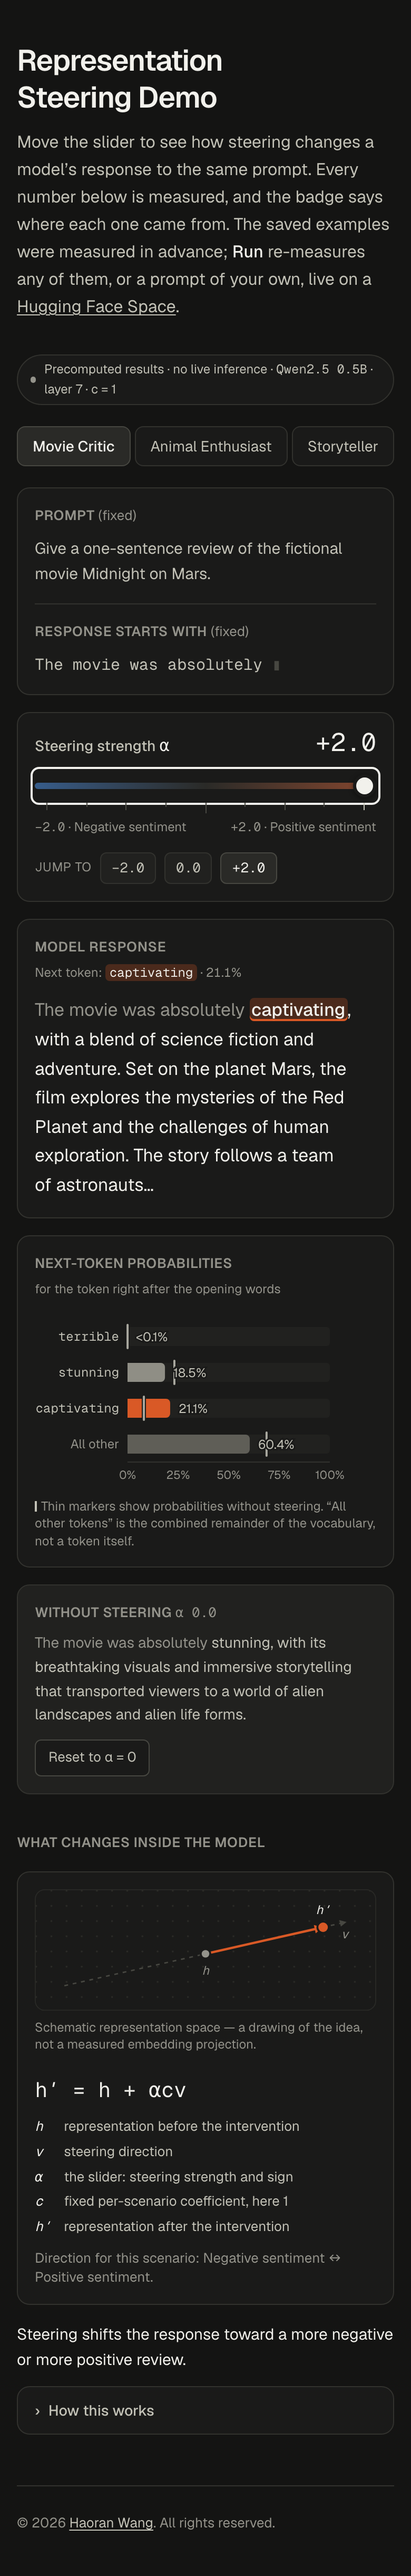
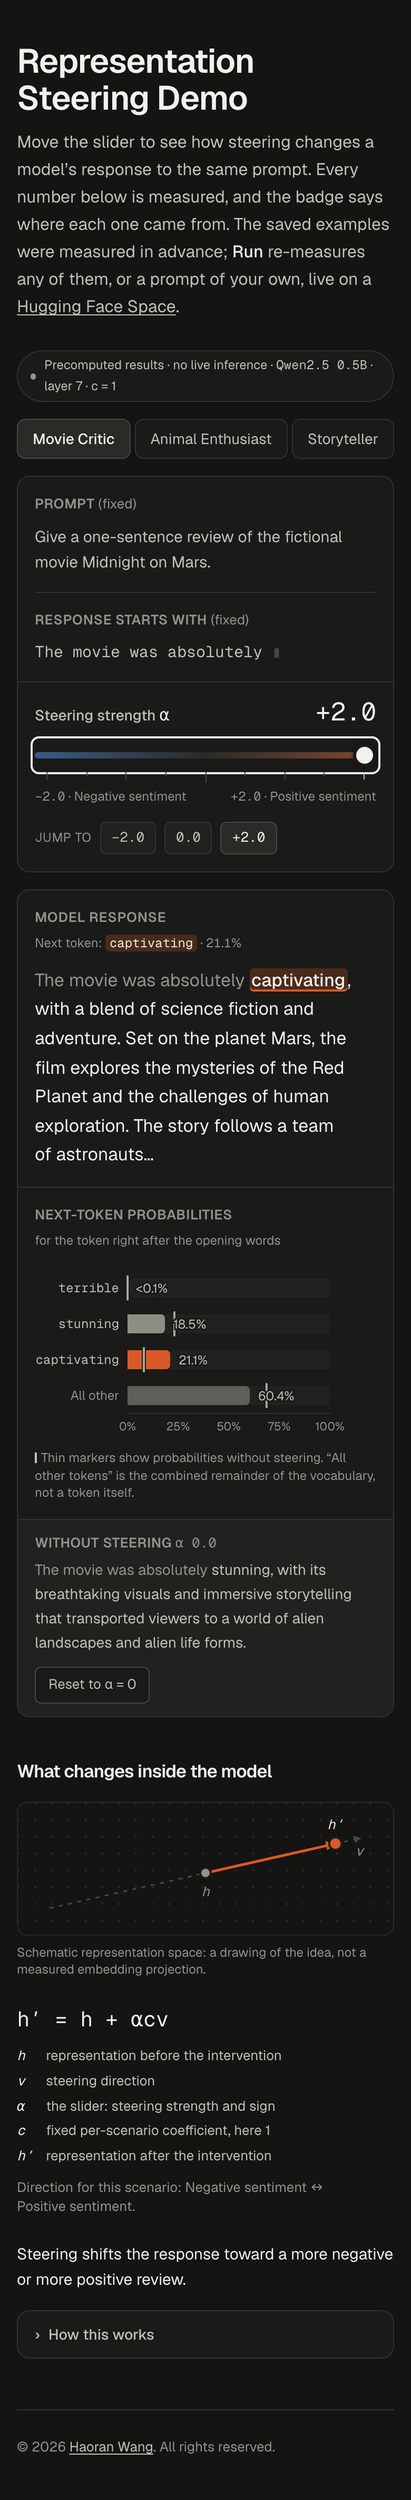
Regroup the page into what you set, what you get, and why
A recomposition inside the existing visual world, following the layout and
redesign playbooks with the user's direction confirmed first: keep the identity,
rebuild the hierarchy, and keep the instrument and the explanation both present.

Seven bordered cards of equal weight became three surfaces with a reason each.
The instrument (live controls, prompt, opening words, slider) is one panel with
hairlines inside it, so it reads as one control. The reading (response, chart,
and the unsteered reference as its footer) is one panel, divided by a hairline
that turns horizontal below lg. The explanation is unboxed, with room above it
and a heading in the page's own voice; it was an eyebrow above a card, the one
pattern the craft floor bans outright. The prompt panel no longer draws its own
border, and its labels drop from h2 to h3 so the heading order is h1, the panel
labels, then the one real h2.

Measured on a 1280x900 viewport: the reading region now starts at 621px (the
chart heading was at 778), the slider at 477. Every load-bearing selector in the
browser tests is unchanged, and all 39 pass.

Also rewrites the five em-dashes in visible copy as ordinary punctuation. They
were legitimate typography, but they are also the most-cited signature of
machine-written text, and this page is submitted with job applications.

Verified: 74 unit and 39 browser tests, the base-path build, the layout-scope
detector with no findings, and no horizontal overflow at 390 or 1280.
[…]

diff --git a/src/components/SteeringShowcase.tsx b/src/components/SteeringShowcase.tsx
@@ -285,7 +285,7 @@ export function SteeringShowcase({ scenarios, provenance, spaceUrl }: SteeringSh
 
   return (
     <div className="min-w-0">
-      <div className="mb-4">
+      <div className="mb-3">
         <ResultBadge identity={identity} stale={stale} state={liveState} />
       </div>
 
@@ -300,114 +300,136 @@ export function SteeringShowcase({ scenarios, provenance, spaceUrl }: SteeringSh
         role="tabpanel"
         id={panelId}
         aria-labelledby={`tab-${scenario.id}`}
-        className="mt-4 space-y-4"
+        className="mt-3"
       >
-        {liveAvailable && (
-          <LiveControls
-            state={liveState}
-            model={model}
-            onModelChange={changeModel}
-            error={liveError}
-            edited={edited}
-            onRun={runLive}
-            onRevert={revertToRecorded}
-            showRevert={identity.source === 'live' || edited}
-          />
-        )}
-
-        {/* 3. The two halves of the input the slider never touches. */}
-        <PromptPanel
-          prompt={prompt}
-          prefix={prefix}
-          onChange={liveAvailable ? changeDraft : null}
-          edited={edited}
-          maxPrompt={300}
-          maxPrefix={100}
-        />
-
-        {/* 5. The control. */}
-        <section className="rounded-xl border border-[var(--color-line)] bg-[var(--color-surface-1)] p-4 sm:p-5">
-          <AlphaSlider
-            stateIndex={stateIndex}
-            onChange={setStateIndex}
-            negativeLabel={scenario.negativeLabel}
-            positiveLabel={scenario.positiveLabel}
-            valueText={sliderValueText}
-            scenarioTitle={scenario.title}
-          />
-        </section>
-
-        {/* 6. What changed. */}
-        <div className="grid gap-4 lg:grid-cols-2">
-          <section className="rounded-xl border border-[var(--color-line)] bg-[var(--color-surface-1)] p-4 sm:p-5">
-            <CompletionPanel
-              prefix={scenario.prefix}
-              continuation={state.continuation}
-              tokenLabel={selected.label}
-              color={selectedColor}
-              probability={selectedProbability}
-            />
-          </section>
-
-          <section className="rounded-xl border border-[var(--color-line)] bg-[var(--color-surface-1)] p-4 sm:p-5">
-            <div className="flex flex-wrap items-baseline justify-between gap-x-3 gap-y-1">
-              <h3 className="text-[13px] font-semibold uppercase tracking-wide text-[var(--color-ink-3)]">
-                Next-token probabilities
-              </h3>
-              <p className="text-[12px] text-[var(--color-ink-3)]">
-                for the token right after the opening words
-              </p>
-            </div>
-            <div className="mt-3">
-              <TokenChart
-                key={`${scenario.id}-${identity.source}`}
-                rows={rows}
-                summary={chartSummary}
-                alphaLabel={`alpha ${formatAlpha(state.alpha)}`}
+        {/*
+          The instrument: everything the visitor sets. One surface with hairlines inside it, so the
+          live controls, the prompt, the opening words and the slider read as one control rather
+          than three cards of equal weight.
+        */}
+        <section
+          aria-label="Steering controls"
+          className="rounded-xl border border-[var(--color-line)] bg-[var(--color-surface-1)]"
+        >
+          {liveAvailable && (
+            <div className="border-b border-[var(--color-line)] px-4 py-3 sm:px-5">
+              <LiveControls
+                state={liveState}
+                model={model}
+                onModelChange={changeModel}
+                error={liveError}
+                edited={edited}
+                onRun={runLive}
+                onRevert={revertToRecorded}
+                showRevert={identity.source === 'live' || edited}
               />
             </div>
-            <p className="mt-2 text-[12px] leading-snug text-[var(--color-ink-3)]">
-              <span aria-hidden="true" className="mr-1 inline-block h-[10px] w-[2px] translate-y-[1px] bg-[var(--color-ink-2)]" />
-              Thin markers show probabilities without steering. &ldquo;All other tokens&rdquo; is
-              the combined remainder of the vocabulary, not a token itself.
-            </p>
-          </section>
-        </div>
+          )}
 
-        {/* 7. The fixed point of comparison, plus the way back to it. */}
-        <section className="rounded-xl border border-[var(--color-line)] bg-[var(--color-surface-2)] p-4 sm:px-5">
-          <div className="flex flex-col items-start justify-between gap-3 sm:flex-row sm:gap-x-4">
-            <div className="min-w-0 flex-1">
-              <h3 className="text-[13px] font-semibold uppercase tracking-wide text-[var(--color-ink-3)]">
-                Without steering <span className="font-mono font-normal normal-case tracking-normal">&alpha; 0.0</span>
-              </h3>
-              <p className="mt-1.5 text-[14px] leading-relaxed text-[var(--color-ink-2)]">
-                <span className="text-[var(--color-ink-3)]">{scenario.prefix} </span>
-                {neutral.continuation}
-              </p>
-            </div>
-            <button
-              type="button"
-              onClick={() => setStateIndex(NEUTRAL_INDEX)}
-              disabled={atNeutral}
-              className="pressable shrink-0 self-start rounded-md border border-[var(--color-line-strong)] bg-[var(--color-surface-1)] px-3 py-1.5 text-[13px] text-[var(--color-ink-2)] hover:text-[var(--color-ink)] disabled:cursor-default disabled:border-[var(--color-line)] disabled:text-[var(--color-ink-3)] disabled:opacity-60"
-            >
-              {atNeutral ? 'At \u03b1 = 0' : 'Reset to \u03b1 = 0'}
-            </button>
+          <div className="px-4 py-4 sm:px-5">
+            <PromptPanel
+              prompt={prompt}
+              prefix={prefix}
+              onChange={liveAvailable ? changeDraft : null}
+              edited={edited}
+              maxPrompt={300}
+              maxPrefix={100}
+            />
+          </div>
+
+          <div className="border-t border-[var(--color-line)] px-4 pb-4 pt-4 sm:px-5 sm:pb-5">
+            <AlphaSlider
+              stateIndex={stateIndex}
+              onChange={setStateIndex}
+              negativeLabel={scenario.negativeLabel}
+              positiveLabel={scenario.positiveLabel}
+              valueText={sliderValueText}
+              scenarioTitle={scenario.title}
+            />
           </div>
         </section>
 
         {/*
-          The schematic sits below the results. It explains the mechanism, but the payoff is the
-          slider moving the numbers, and an audit found the result cards starting ~975px down the
-          page because the setup came first.
+          The reading: what came out. The response and the chart share one surface, divided by a
+          hairline that turns horizontal below lg; the unsteered reference is the panel's footer,
+          the fixed point everything above it is read against.
         */}
-        {/* More room above this heading than below it: the results end here, the explanation begins. */}
-        <h2 className="pt-5 text-[13px] font-semibold uppercase tracking-wide text-[var(--color-ink-3)]">
-          What changes inside the model
-        </h2>
-        <section className="rounded-xl border border-[var(--color-line)] bg-[var(--color-surface-1)] p-4 sm:p-5">
-          <div className="grid gap-5 lg:grid-cols-[minmax(0,1.1fr)_minmax(0,1fr)] lg:items-center">
+        <section
+          aria-label="Model output"
+          className="mt-4 overflow-hidden rounded-xl border border-[var(--color-line)] bg-[var(--color-surface-1)]"
+        >
+          <div className="grid lg:grid-cols-2">
+            <div className="p-4 sm:p-5">
+              <CompletionPanel
+                prefix={scenario.prefix}
+                continuation={state.continuation}
+                tokenLabel={selected.label}
+                color={selectedColor}
+                probability={selectedProbability}
+              />
+            </div>
+
+            <div className="border-t border-[var(--color-line)] p-4 sm:p-5 lg:border-l lg:border-t-0">
+              <div className="flex flex-wrap items-baseline justify-between gap-x-3 gap-y-1">
+                <h3 className="text-[13px] font-semibold uppercase tracking-wide text-[var(--color-ink-3)]">
+                  Next-token probabilities
+                </h3>
+                <p className="text-[12px] text-[var(--color-ink-3)]">
+                  for the token right after the opening words
+                </p>
+              </div>
+              <div className="mt-3">
+                <TokenChart
+                  key={`${scenario.id}-${identity.source}`}
+                  rows={rows}
+                  summary={chartSummary}
+                  alphaLabel={`alpha ${formatAlpha(state.alpha)}`}
+                />
+              </div>
+              <p className="mt-2 text-[12px] leading-snug text-[var(--color-ink-3)]">
+                <span aria-hidden="true" className="mr-1 inline-block h-[10px] w-[2px] translate-y-[1px] bg-[var(--color-ink-2)]" />
+                Thin markers show probabilities without steering. &ldquo;All other tokens&rdquo; is
+                the combined remainder of the vocabulary, not a token itself.
+              </p>
+            </div>
+          </div>
+
+          <div className="border-t border-[var(--color-line)] bg-[var(--color-surface-2)] px-4 py-3 sm:px-5">
+            <div className="flex flex-col items-start justify-between gap-3 sm:flex-row sm:gap-x-4">
+              <div className="min-w-0 flex-1">
+                <h3 className="text-[13px] font-semibold uppercase tracking-wide text-[var(--color-ink-3)]">
+                  Without steering <span className="font-mono font-normal normal-case tracking-normal">&alpha; 0.0</span>
+                </h3>
+                <p className="mt-1 text-[14px] leading-relaxed text-[var(--color-ink-2)]">
+                  <span className="text-[var(--color-ink-3)]">{scenario.prefix} </span>
+                  {neutral.continuation}
+                </p>
+              </div>
+              <button
+                type="button"
+                onClick={() => setStateIndex(NEUTRAL_INDEX)}
+                disabled={atNeutral}
+                className="pressable shrink-0 self-start rounded-md border border-[var(--color-line-strong)] bg-[var(--color-surface-1)] px-3 py-1.5 text-[13px] text-[var(--color-ink-2)] hover:text-[var(--color-ink)] disabled:cursor-default disabled:border-[var(--color-line)] disabled:text-[var(--color-ink-3)] disabled:opacity-60"
+              >
+                {atNeutral ? 'At \u03b1 = 0' : 'Reset to \u03b1 = 0'}
+              </button>
+            </div>
+          </div>
+        </section>
+
+        {/*
+          The explanation: unboxed, with room above it. A heading in the page's own voice rather
+          than an eyebrow, so the results visibly end and the reasoning begins. The schematic keeps
+          its own drawn frame; it is a figure, not a card.
+        */}
+        <section aria-labelledby="mechanism-heading" className="mt-10">
+          <h2
+            id="mechanism-heading"
+            className="text-[17px] font-semibold leading-snug tracking-tight text-[var(--color-ink)]"
+          >
+            What changes inside the model
+          </h2>
+          <div className="mt-4 grid gap-6 lg:grid-cols-[minmax(0,1.1fr)_minmax(0,1fr)] lg:items-center">
             <SchematicSpace
               alpha={eased[candidateCount + 1] ?? state.alpha}
               targetAlpha={state.alpha}
@@ -444,12 +466,11 @@ export function SteeringShowcase({ scenarios, provenance, spaceUrl }: SteeringSh
               </p>
             </div>
           </div>
-        </section>
 
-        {/* 8. The point of the whole thing. */}
-        <section className="space-y-3">
-          <p className="text-[15px] leading-relaxed text-[var(--color-ink)]">{scenario.takeaway}</p>
-          <HowItWorks identity={identity} />
+          <p className="mt-6 text-[15px] leading-relaxed text-[var(--color-ink)]">{scenario.takeaway}</p>
+          <div className="mt-4">
+            <HowItWorks identity={identity} />
+          </div>
         </section>
       </div>
 

diff --git a/src/components/HowItWorks.tsx b/src/components/HowItWorks.tsx
@@ -31,8 +31,8 @@ export function HowItWorks({ identity }: HowItWorksProps) {
 
       <div className="space-y-3 border-t border-[var(--color-line)] px-4 py-4 text-[14px] leading-relaxed text-[var(--color-ink-2)]">
         <p>
-          Representation steering &mdash; also called activation steering &mdash; changes a
-          model&rsquo;s internal activations during generation. Here a steering vector <Sym>v</Sym> is added to a hidden representation <Sym>h</Sym> at a
+          Representation steering, also called activation steering, changes a model&rsquo;s
+          internal activations during generation. Here a steering vector <Sym>v</Sym> is added to a hidden representation <Sym>h</Sym> at a
           selected layer: <Sym>h&#8242; = h + &alpha;cv</Sym>. The slider controls{' '}
           <Sym>&alpha;</Sym>. <Sym>c</Sym> is a fixed per-scenario coefficient, shown in the badge,
           so <Sym>c</Sym>&nbsp;=&nbsp;2 at <Sym>&alpha;</Sym>&nbsp;=&nbsp;1 means the intervention
@@ -54,7 +54,7 @@ export function HowItWorks({ identity }: HowItWorksProps) {
           decoding, which takes the highest-scoring token at each step, with sampling and any
           packaged repetition penalty switched off so the first generated token is exactly the
           argmax shown beside it. Steering effects can be uneven, and stronger steering can reduce
-          fluency or change unrelated details &mdash; both are visible on the slider.
+          fluency or change unrelated details; both are visible on the slider.
         </p>
 
         <p>
@@ -89,7 +89,7 @@ export function HowItWorks({ identity }: HowItWorksProps) {
             </>
           ) : null}
           . The layer and coefficient were chosen by sweeping both and keeping the setting where
-          the intended contrast appeared most clearly &mdash; those are selected demonstration
+          the intended contrast appeared most clearly. Those are selected demonstration
           settings, not evidence of general effectiveness. The models here are deliberately small;
           none of this is a result about how larger systems behave.
           {identity.measured ? ` Measured ${identity.measured}.` : ''} Method and data:{' '}

diff --git a/src/components/PromptPanel.tsx b/src/components/PromptPanel.tsx
@@ -23,15 +23,16 @@ export function PromptPanel({ prompt, prefix, onChange, edited, maxPrompt, maxPr
       : '(edit to try your own)'
     : '(fixed)';
 
+  // Rendered inside the instrument panel, which owns the border: this is one half of a control,
+  // not a card of its own.
   return (
-    <section className="rounded-xl border border-[var(--color-line)] bg-[var(--color-surface-1)] p-4 sm:p-5">
-      <div className="grid gap-4 sm:grid-cols-[minmax(0,1fr)_minmax(0,1fr)]">
+    <div className="grid gap-4 sm:grid-cols-[minmax(0,1fr)_minmax(0,1fr)]">
         <div>
-          <h2 className="text-[13px] font-semibold uppercase tracking-wide text-[var(--color-ink-3)]">
+          <h3 className="text-[13px] font-semibold uppercase tracking-wide text-[var(--color-ink-3)]">
             <label htmlFor="scenario-prompt">
               Prompt <span className="font-normal normal-case tracking-normal">{label}</span>
             </label>
-          </h2>
+          </h3>
           {editable ? (
             <textarea
               id="scenario-prompt"
@@ -47,12 +48,12 @@ export function PromptPanel({ prompt, prefix, onChange, edited, maxPrompt, maxPr
         </div>
 
         <div className="border-t border-[var(--color-line)] pt-4 sm:border-l sm:border-t-0 sm:pl-5 sm:pt-0">
-          <h2 className="text-[13px] font-semibold uppercase tracking-wide text-[var(--color-ink-3)]">
+          <h3 className="text-[13px] font-semibold uppercase tracking-wide text-[var(--color-ink-3)]">
             <label htmlFor="scenario-prefix">
               Response starts with{' '}
               <span className="font-normal normal-case tracking-normal">{label}</span>
             </label>
-          </h2>
+          </h3>
           {editable ? (
             <>
               <input
@@ -75,7 +76,6 @@ export function PromptPanel({ prompt, prefix, onChange, edited, maxPrompt, maxPr
             </p>
           )}
         </div>
-      </div>
-    </section>
+    </div>
   );
 }

diff --git a/src/components/ResultBadge.tsx b/src/components/ResultBadge.tsx
@@ -31,7 +31,7 @@ export function ResultBadge({ identity, stale, state }: ResultBadgeProps) {
         ? 'Computed on Hugging Face'
         : origin === 'cached'
           ? `Replayed from the Space's cache${age ? `, ${age}` : ''}`
-          : `Live run failed — stored result${age ? ` from ${age}` : ''}`;
+          : `Live run failed: stored result${age ? ` from ${age}` : ''}`;
 
   return (
     <div className="flex flex-wrap items-center gap-2 text-[12px]">

diff --git a/src/components/SchematicSpace.tsx b/src/components/SchematicSpace.tsx
@@ -115,7 +115,7 @@ export function SchematicSpace({
         </text>
       </svg>
       <figcaption className="mt-2 text-[12px] leading-snug text-[var(--color-ink-3)]">
-        Schematic representation space &mdash; a drawing of the idea, not a measured embedding
+        Schematic representation space: a drawing of the idea, not a measured embedding
         projection.
       </figcaption>
     </figure>
